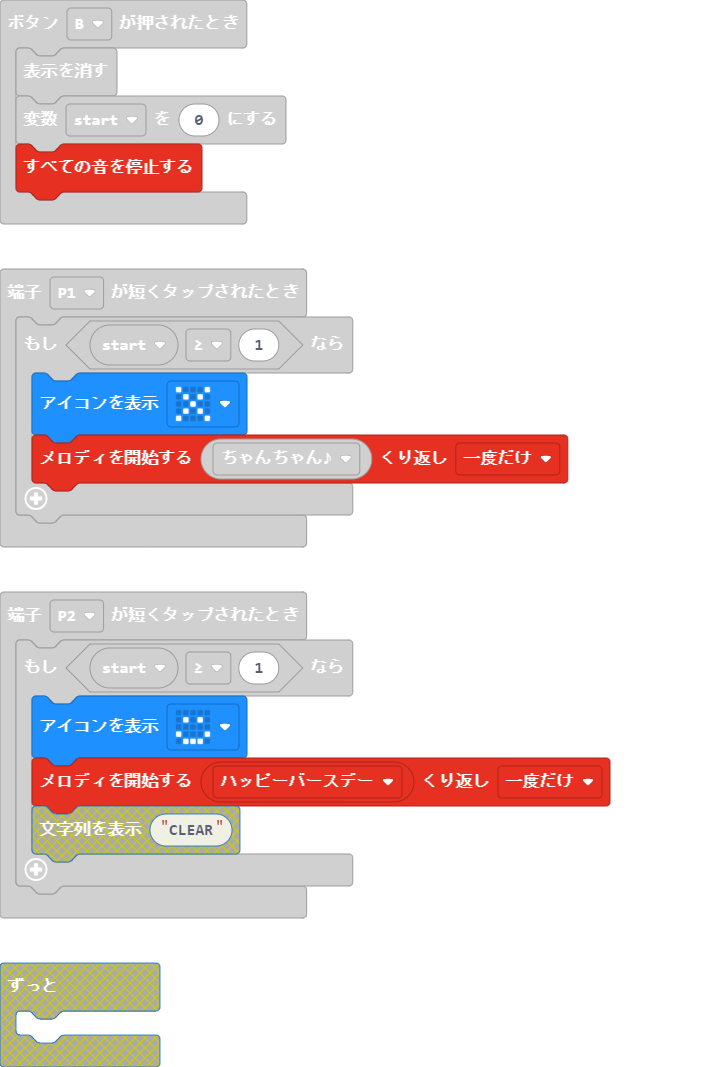
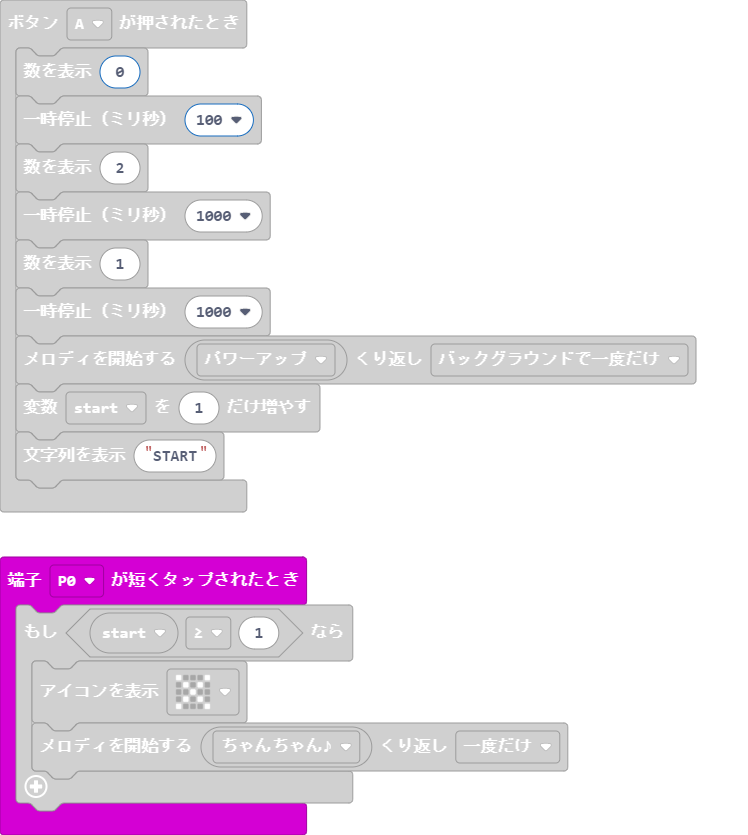
更新 main.blocks, main.ts

diff --git a/main.ts b/main.ts
@@ -1,6 +1,12 @@
+input.onPinPressed(TouchPin.P0, function () {
+    if (start >= 1) {
+        basic.showIcon(IconNames.No)
+        music.startMelody(music.builtInMelody(Melodies.Punchline), MelodyOptions.Once)
+    }
+})
 input.onButtonPressed(Button.A, function () {
-    basic.showNumber(3)
-    basic.pause(1000)
+    basic.showNumber(0)
+    basic.pause(100)
     basic.showNumber(2)
     basic.pause(1000)
     basic.showNumber(1)
@@ -19,12 +25,6 @@ input.onButtonPressed(Button.B, function () {
     basic.clearScreen()
     start = 0
     music.stopAllSounds()
-})
-input.onPinPressed(TouchPin.P1, function () {
-    if (start >= 1) {
-        basic.showIcon(IconNames.No)
-        music.startMelody(music.builtInMelody(Melodies.Punchline), MelodyOptions.Once)
-    }
 })
 let start = 0
 basic.clearScreen()
